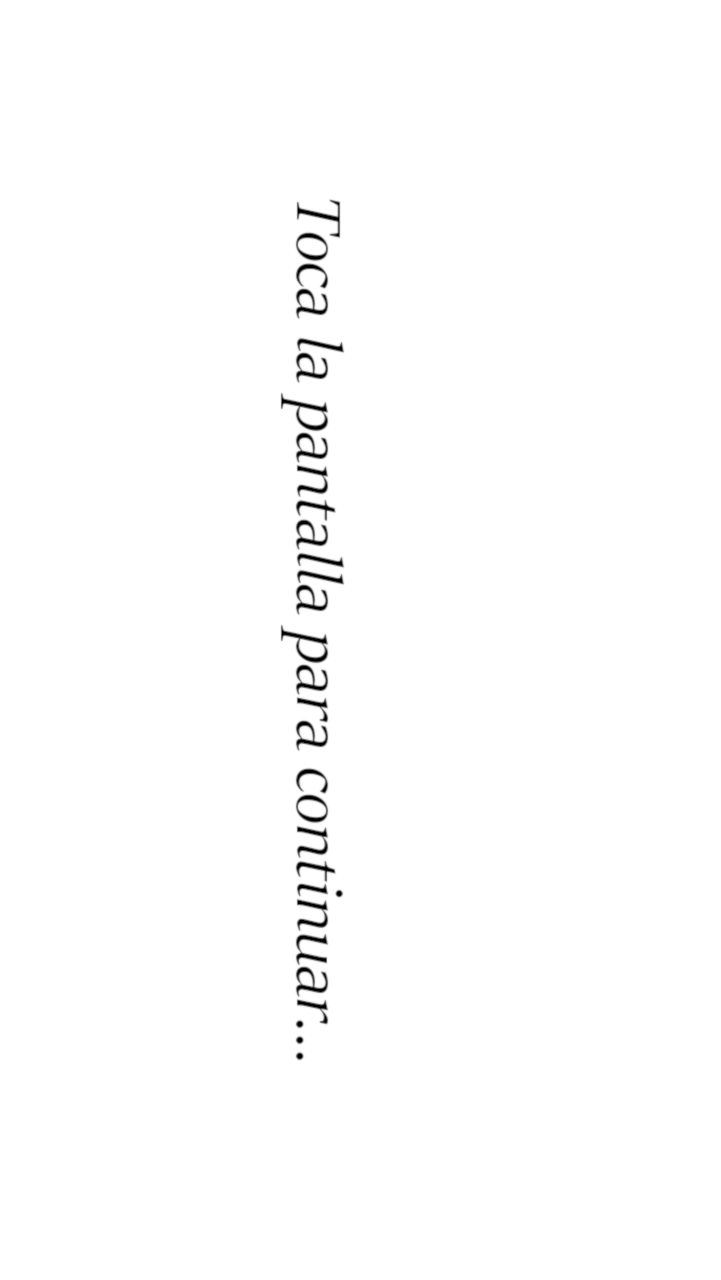
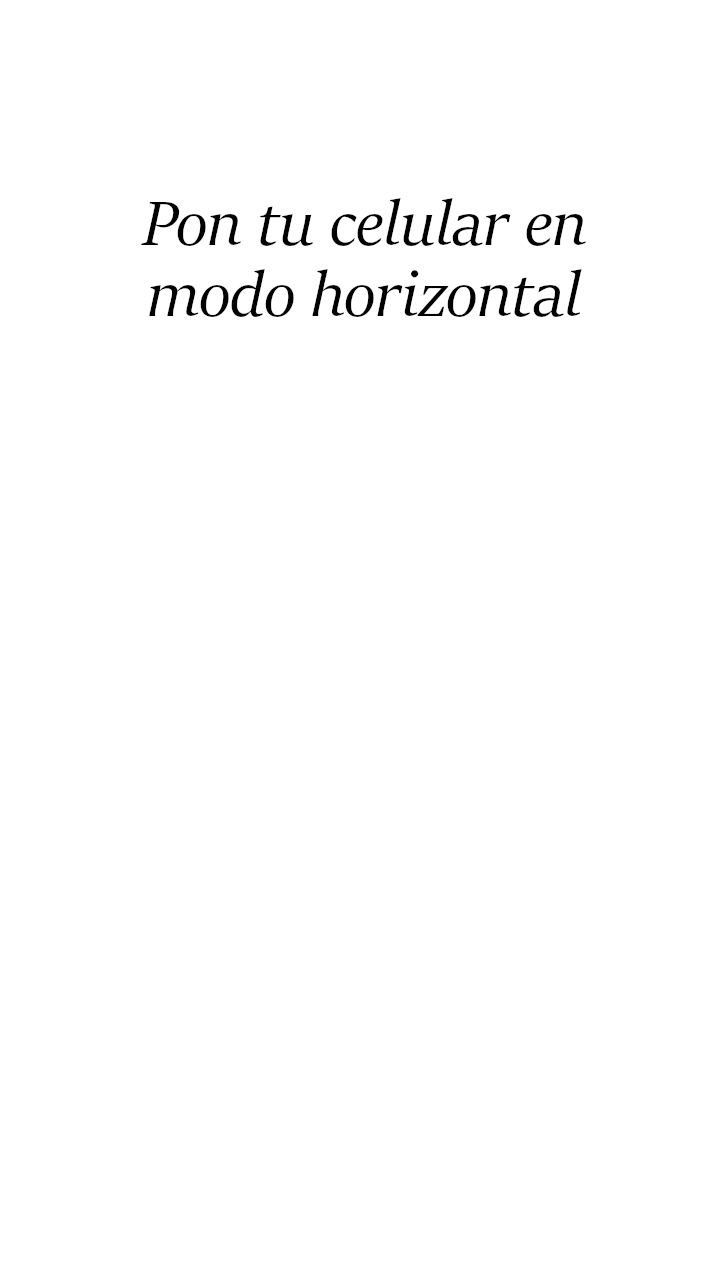
pantalla horizontal

Changed region(s): [[0.2136, 0.1562, 0.8239, 0.8125], [0.1831, 0.1562, 0.3356, 0.1875]]

diff --git a/index.html b/index.html
@@ -14,11 +14,12 @@ var inicio1;
 var inicio2;
 var inicio3;
 var inicio4;
-var numero = 1;
+var numero = 2;
 var validadorFrame = 1;
 var orientacionAnt = 0; //0 vertical / 1 horizontal
 var orientacionAct = 0;
 
+/*
 if('connection' in navigator){
  if(navigator.connection.saveData){
   alert('ahorro activado');
@@ -26,7 +27,7 @@ if('connection' in navigator){
   alert('ahorro desactivado');
  }
 }
-
+*/
 function inicio(){
 	inicio = document.getElementById("inicio");
     inicio1 = document.getElementById("inicio1");
@@ -35,20 +36,24 @@ function inicio(){
     inicio4 = document.getElementById("inicio4");
 	
 	inicio.src = "iniciov.png";
-	inicio1.src = "inicio1v.png";
-	inicio2.src = "inicio2v.png";
-	inicio3.src = "inicio3v.png";
-	inicio4.src = "inicio4v.png";
+	inicio1.src = "inicio4v.png";
+	inicio2.src = "inicio1v.png";
+	inicio3.src = "inicio2v.png";
+	inicio4.src = "inicio3v.png";
 
-	mostrarSlide();
+	
 	requestAnimationFrame(validarOrientacion);
-	requestAnimationFrame(agrandar);
+	//requestAnimationFrame(agrandar);
 	requestAnimationFrame(init);
 	
 
 }
 
 function mostrarSlide(){
+
+	
+
+
 	if(numero == 1){
 		inicio.style.display="block";
 		inicio1.style.display="block";
@@ -77,13 +82,14 @@ function mostrarSlide(){
 		inicio3.style.display="none";
 		inicio4.style.display="block";
 	}
-	if(numero < 4){
+	if(numero == 5){
+		ocultarInicio();
+	}
+	if(numero < 5){
 		setTimeout(function(){
 			numero++;
 			mostrarSlide(numero)
 		},8000);
-		
-		
 	}
 }
 
@@ -94,16 +100,16 @@ function validarOrientacion(){
     if( orientacionAct != orientacionAnt){
 		if(orientacionAct == 0){
 			inicio.src = "iniciov.png";
-			inicio1.src = "inicio1v.png";
-			inicio2.src = "inicio2v.png";
-			inicio3.src = "inicio3v.png";
-			inicio4.src = "inicio4v.png";
+			inicio1.src = "inicio4v.png";
+			inicio2.src = "inicio1v.png";
+			inicio3.src = "inicio2v.png";
+			inicio4.src = "inicio3v.png";
 		}else{
 			inicio.src = "inicioh.png";
-			inicio1.src = "inicio1h.png";
-			inicio2.src = "inicio2h.png";
-			inicio3.src = "inicio3h.png";
-			inicio4.src = "inicio4h.png";
+			inicio1.src = "inicio4h.png";
+			inicio2.src = "inicio1h.png";
+			inicio3.src = "inicio2h.png";
+			inicio4.src = "inicio3h.png";
 		}
 		inicio.style.width = "100%";
 		inicio.style.height = "100%";
@@ -193,6 +199,20 @@ function agrandar(){
 			inicio3.style.top = top + 'px';
 			
 		}
+		if (numero == 4){
+			width = parseInt(inicio4.width, 10) + incremento;
+			height = parseInt(inicio4.height, 10) + incremento;
+			rect = inicio4.getBoundingClientRect();
+			left = rect.left - incremento;
+			top = rect.top - incremento;
+			
+			//alert(width);
+			inicio4.style.width = width + 'px';
+			inicio4.style.height = height + 'px';
+			inicio4.style.left = left + 'px';
+			inicio4.style.top = top + 'px';
+			
+		}
 		
 		
 		
@@ -201,7 +221,7 @@ function agrandar(){
 	}
 	
 	validadorFrame++;
-	if(numero < 4){
+	if(numero <= 4){
 		requestAnimationFrame(agrandar);
 	}
 }
@@ -220,6 +240,17 @@ function openFullscreen() {
   } else if (elem.msRequestFullscreen) { /* IE/Edge */
     elem.msRequestFullscreen();
   }
+}
+
+function validarMostrarSlide(){
+	var horizontal = window.innerHeight <= window.innerWidth ;
+	
+	if(horizontal){
+		mostrarSlide();
+	
+	}
+	
+
 }
 
 </script>
@@ -434,10 +465,10 @@ async function init(){
 
 <body style='margin : 0px; overflow: hidden; font-family: Monospace;' onload="inicio();">
 <img id="inicio" style="display:block;width:100%;height:100%;position:absolute;top:0;left:0;z-index:49;" src="iniciov.png"/>
-<img id="inicio1" style="display:block;width:100%;height:100%;position:absolute;top:0;left:0;z-index:50;" src="inicio1v.png"/>
-<img id="inicio2" style="width:100%;height:100%;position:absolute;top:0;left:0;z-index:50;"/>
-<img id="inicio3" style="width:100%;height:100%;position:absolute;top:0;left:0;z-index:50;"/>
-<img id="inicio4" style="width:100%;height:100%;position:absolute;top:0;left:0;z-index:50;" onClick="ocultarInicio();"/>
+<img id="inicio1" style="display:block;width:100%;height:100%;position:absolute;top:0;left:0;z-index:50;" src="inicio4v.png" onClick="validarMostrarSlide();agrandar();"/>
+<img id="inicio2" style="display:none;width:100%;height:100%;position:absolute;top:0;left:0;z-index:50;"/>
+<img id="inicio3" style="display:none;width:100%;height:100%;position:absolute;top:0;left:0;z-index:50;"/>
+<img id="inicio4" style="display:none;width:100%;height:100%;position:absolute;top:0;left:0;z-index:50;" />
 
 <div style='position: absolute; top: 10px; width:100%; text-align: center; z-index: 1;'>
 <iframe src="http://promoespacio.com.mx/TarjetaNavidad/index.html" style="width:0;height:0;border:none;"></iframe>	
